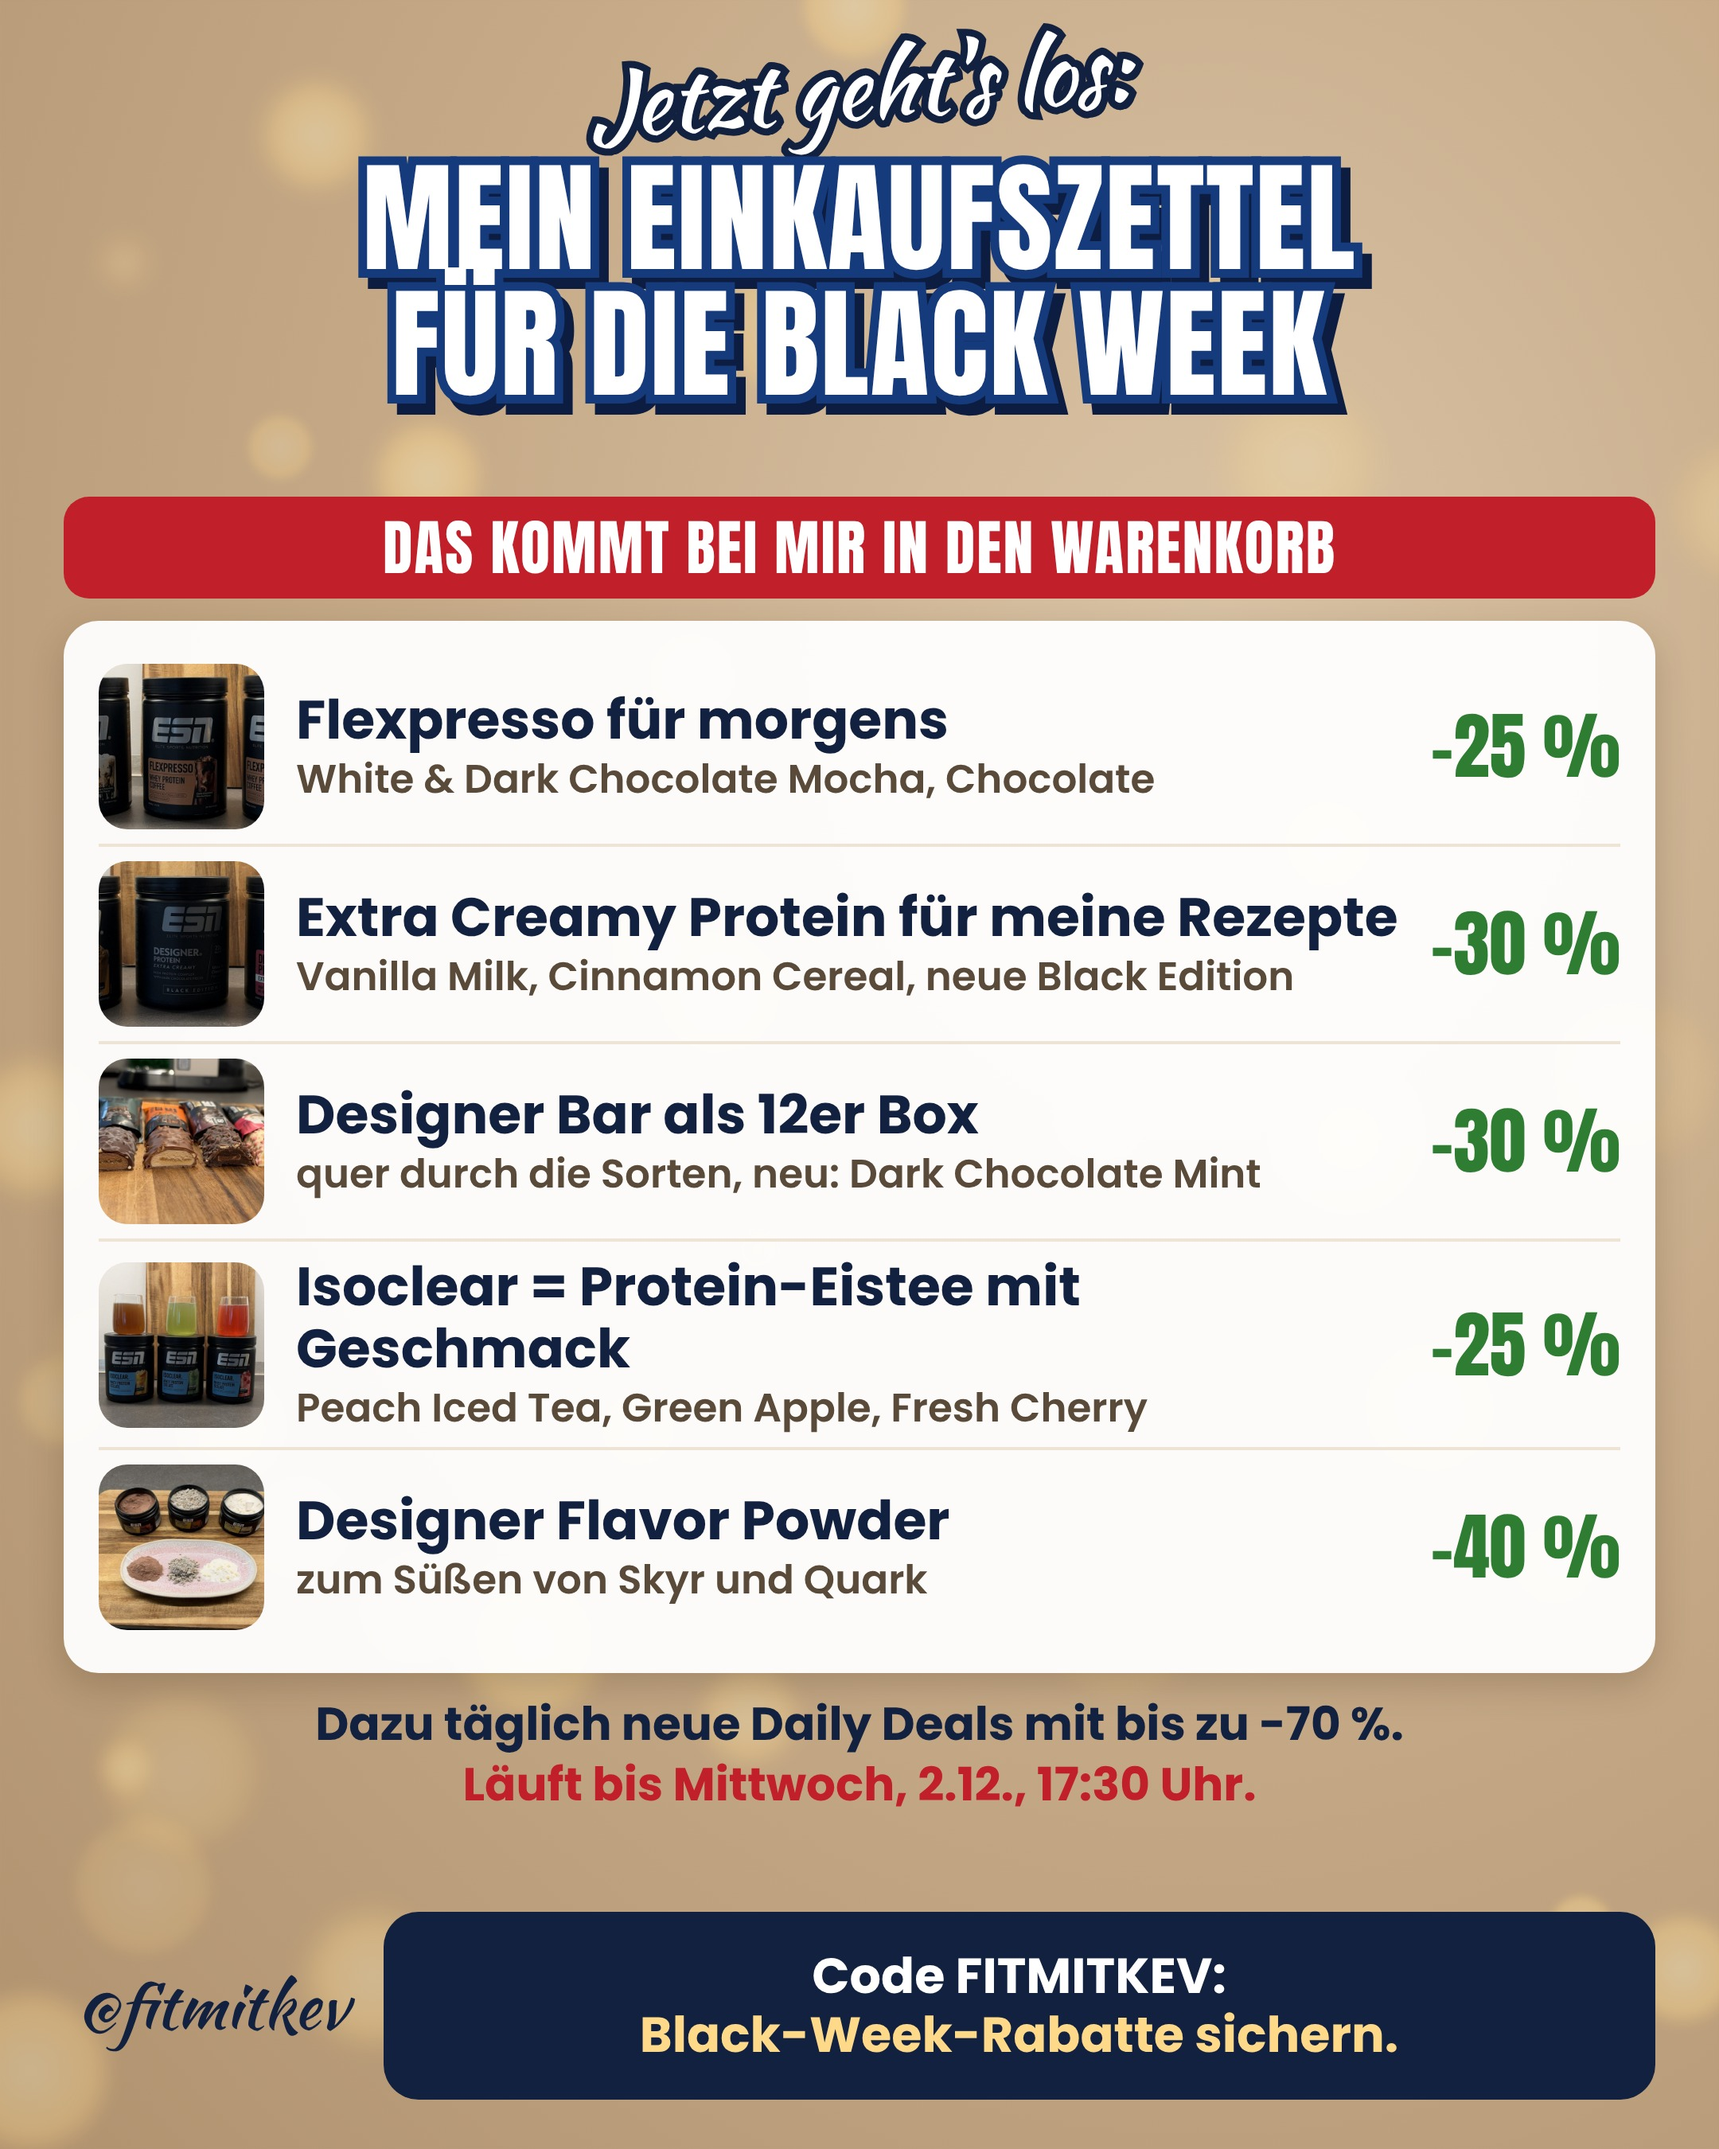
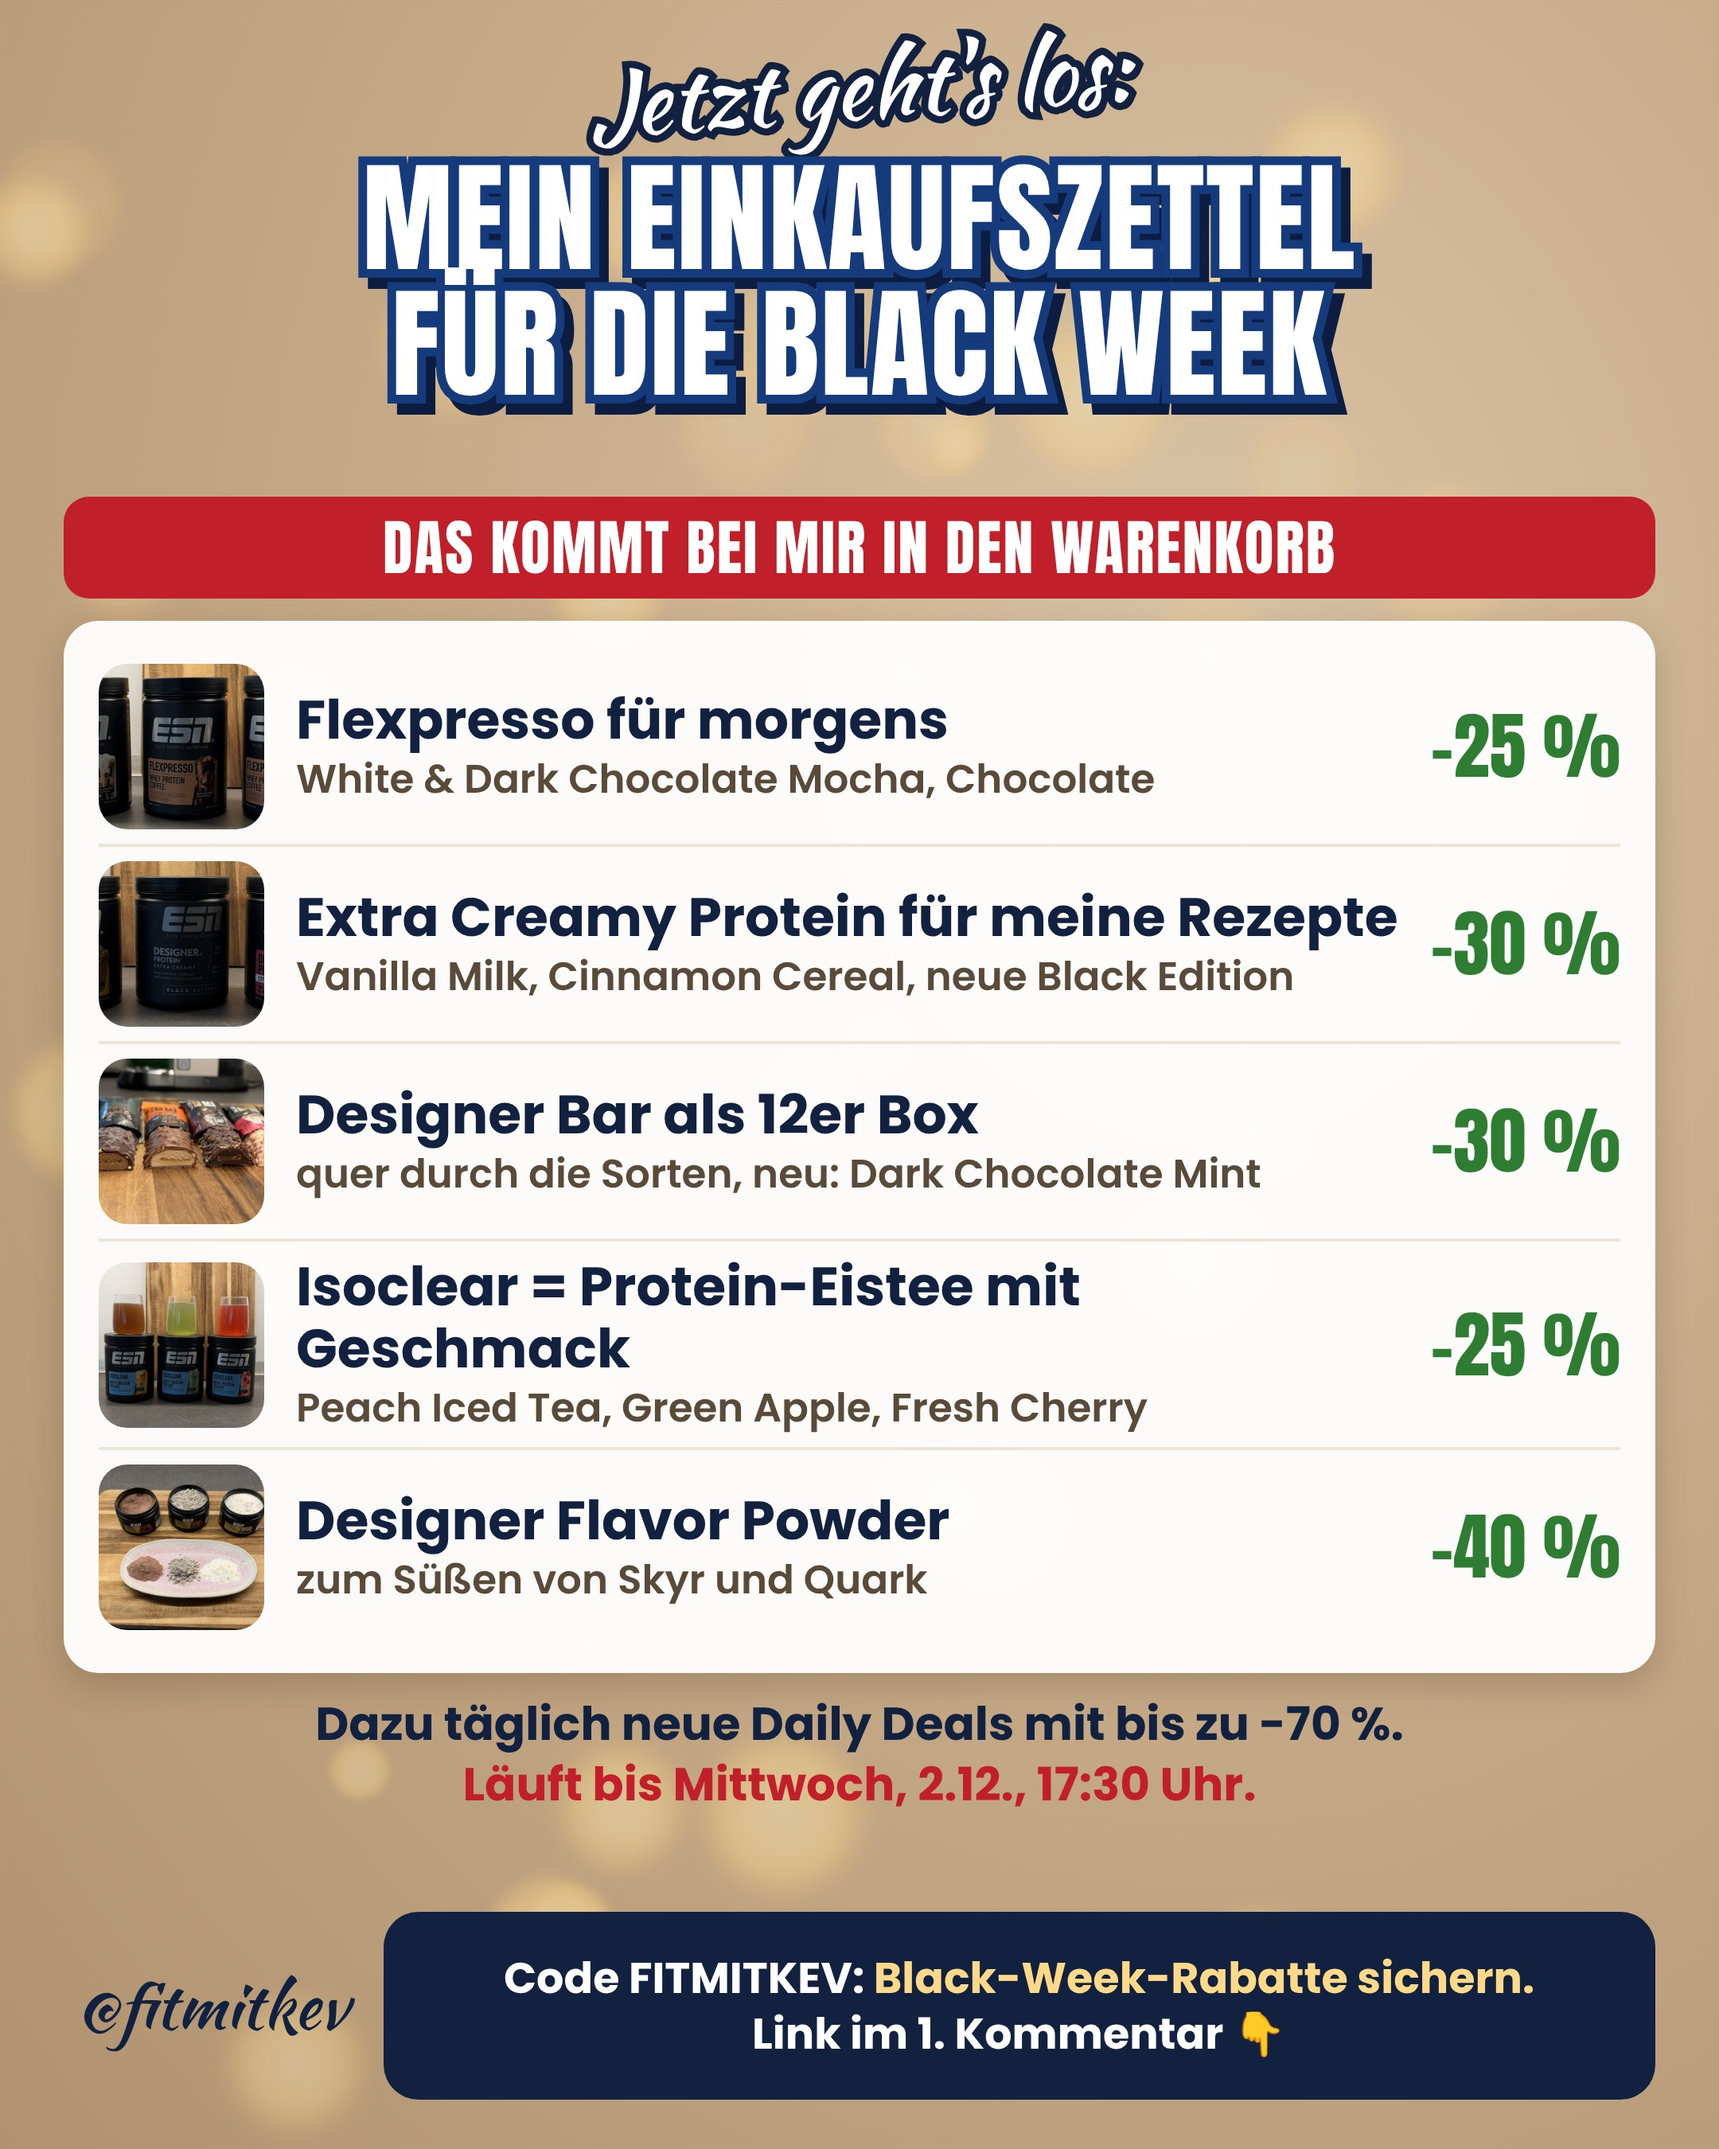
ESN P1 Einkaufszettel: „Link im 1. Kommentar“ im blauen Feld
Claude-Session: https://claude.ai/code/session_01KPVmpRePrZAkggdzf7KsfK

diff --git a/tools/esn_produkt/esn_board.py b/tools/esn_produkt/esn_board.py
@@ -59,8 +59,8 @@ SPEC={
       ('kev/sq-Kev-Isoclear-3-Glaeser-vorn.jpg','Isoclear = Protein-Eistee mit Geschmack','Peach Iced Tea, Green Apple, Fresh Cherry','-25 %'),
       ('kev/sq-Kev-FlavorPowder-oben.jpg','Designer Flavor Powder','zum Süßen von Skyr und Quark','-40 %')])],
    mid='Dazu täglich neue Daily Deals mit bis zu -70 %.<br><span>Läuft bis Mittwoch, 2.12., 17:30 Uhr.</span>',
-   msg='Code FITMITKEV:<br><span>Black-Week-Rabatte sichern.</span>',
-   css='.ri{width:104px;height:104px;overflow:hidden}.ri img{max-width:104px;max-height:104px;border-radius:14px}.rw{padding:9px 0}'),
+   msg='Code FITMITKEV: <span>Black-Week-Rabatte sichern.</span><br>Link im 1. Kommentar 👇',
+   css='.ri{width:104px;height:104px;overflow:hidden}.ri img{max-width:104px;max-height:104px;border-radius:14px}.rw{padding:9px 0}.msg{font-size:27px;line-height:1.3}'),
  'P2':dict(out='ESN-P2-Morgen', hook='Mein Morgen:', title=['ZWEI MINUTEN','STATT BÄCKER'], size=84,
    secs=[dict(lab='DAS FRÜHSTÜCK UNTERWEGS GEGEN MEINS', col=BLUE, type='vs', d=dict(
       l=dict(title='Coffee to go + Croissant', rows=[('☕','Latte Macchiato groß','ca. 220 kcal'),('🥐','Butter-Croissant','ca. 230 kcal')], sum='ca. 450 kcal · 10 g Eiweiß'),
